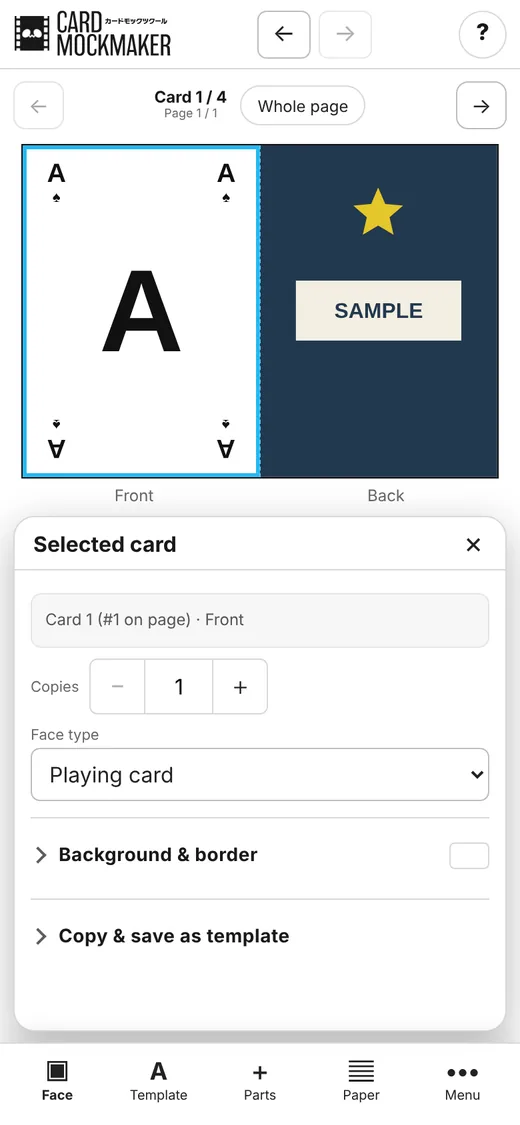
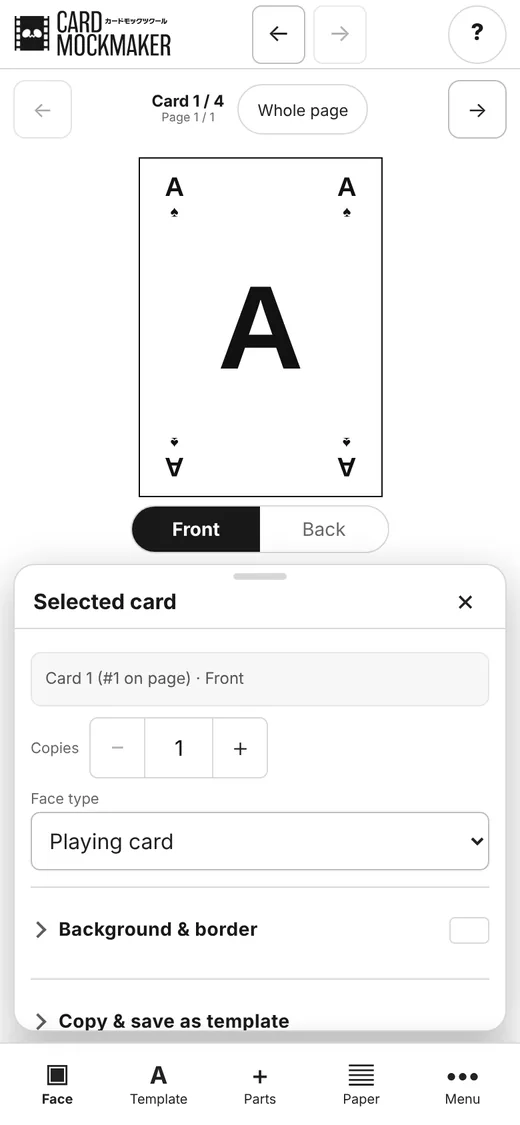
カードモックツクール(テスト版): スマホをタッチ操作向けに(面を1枚大きく・オモテ/ウラ切り替え・スワイプで前後のカード・パーツ用ボタンと大きなつまみ・パネルの取っ手・押す場所を指のサイズに・数字に−＋)
Claude-Session: https://claude.ai/code/session_01MypZ6bnFd6NWuA9aApFgtm

diff --git a/card-mock-maker-next/app.js b/card-mock-maker-next/app.js
@@ -932,7 +932,7 @@ function mobileAddPage(){
 
 function closeMobilePanel(){
   mobilePanelOpen="";
-  document.body.classList.remove("m-panel-open");
+  document.body.classList.remove("m-panel-open","m-panel-full");
   rescaleMobileFaces();
   if(mobileSheetMode)renderMobileSheet();
   document.querySelectorAll(".mobile-tool-panel").forEach(p=>{
@@ -994,11 +994,30 @@ function placeMobilePanel(){
   const sheetFrame=mobileSheetMode?document.querySelector("#mobileSheetView .m-sheet-frame"):null;
   const ref=sheetFrame||((labels&&labels.offsetParent)?labels:pair);if(!ref||!bar)return;
   const barTop=bar.getBoundingClientRect().top;
-  const top=Math.max(56,Math.min(ref.getBoundingClientRect().bottom+8,barTop-8-220));
+  const hb=document.querySelector("header")?.getBoundingClientRect().bottom||56;
+  const top=document.body.classList.contains("m-panel-full")?Math.round(hb+8):Math.max(56,Math.min(ref.getBoundingClientRect().bottom+8,barTop-8-220));   // 上に引き上げたときは画面いっぱい
   document.documentElement.style.setProperty("--m-panel-top",Math.round(top)+"px");
   document.documentElement.style.setProperty("--m-panel-bottom",Math.round(innerHeight-barTop+8)+"px");
 }
 window.addEventListener("resize",placeMobilePanel);
+/* パネルの上の取っ手:下に引くと閉じる、上に引くと画面いっぱいに広がる(広げたあと下に引くと元の大きさ) */
+function setPanelFull(on){document.body.classList.toggle("m-panel-full",!!on);placeMobilePanel()}
+document.querySelectorAll(".mobile-tool-panel").forEach(p=>{
+  const head=p.querySelector(".mobile-panel-head");if(!head)return;
+  const g=document.createElement("div");g.className="m-grab";g.setAttribute("aria-hidden","true");head.prepend(g);
+  let st=null;
+  head.addEventListener("pointerdown",e=>{if(e.target.closest("button"))return;st={id:e.pointerId,y:e.clientY,t:Date.now(),dy:0};try{head.setPointerCapture(e.pointerId)}catch(_){}});
+  head.addEventListener("pointermove",e=>{if(!st||e.pointerId!==st.id)return;st.dy=e.clientY-st.y;p.style.transition="none";p.style.transform=`translateY(${st.dy>0?st.dy:st.dy*.3}px)`});
+  const end=e=>{
+    if(!st||e.pointerId!==st.id)return;const s=st;st=null;const fast=Date.now()-s.t<260;p.style.transition="transform .18s ease";
+    if(s.dy>70||(fast&&s.dy>28)){
+      if(document.body.classList.contains("m-panel-full")){setPanelFull(false);p.style.transform=""}
+      else{p.style.transform="translateY(105%)";setTimeout(()=>{p.style.transition="";p.style.transform="";closeMobilePanel()},170)}
+    }else if(s.dy<-45||(fast&&s.dy<-22)){setPanelFull(true);p.style.transform=""}
+    else p.style.transform="";
+  };
+  head.addEventListener("pointerup",end);head.addEventListener("pointercancel",end);
+});
 
 document.querySelectorAll('input[type=file]').forEach(inp=>{
   if(!inp.id||inp.classList.contains("hidden"))return;
@@ -1070,16 +1089,62 @@ function goToMobilePage(delta){
 }
 
 function rescaleMobileFaces(){
-  document.querySelectorAll("#mobileCardPair .m-face-inner").forEach(n=>{const w=n.parentElement.clientWidth;if(w)n.style.transform=`scale(${w/parseFloat(n.style.width)})`});
+  sizeOneFace();
+  document.querySelectorAll("#mobileCardPair .m-face-inner").forEach(n=>{const w=n.parentElement.clientWidth;if(w){const k=w/parseFloat(n.style.width);n.style.transform=`scale(${k})`;n.style.setProperty("--m-inv",String(1/k))}});
 }
+/* 1枚の面を、カードの上下の空きに収まるいちばん大きな大きさにする(パネルを開いたら、パネルの上に収まる大きさ) */
+function sizeOneFace(){
+  const host=el("mobileCardPair");if(!host||!mobileUIActive()||mobileSheetMode)return;
+  const f=host.querySelector(".face");if(!f)return;
+  const fm=faceMM(),ratio=fm.w/fm.h,vw=document.documentElement.clientWidth;
+  const top=host.getBoundingClientRect().top,seg=document.querySelector(".mobile-face-labels");
+  const segH=seg&&seg.style.display!=="none"?56:14,barTop=el("mobileQuickBar")?.getBoundingClientRect().top||innerHeight;
+  const maxH=mobilePanelOpen?Math.max(130,Math.min(innerHeight*.3,300)):Math.max(160,barTop-top-segH-6);
+  const w=Math.min(vw-40,560,maxH*ratio),h=w/ratio;
+  f.style.setProperty("width",Math.floor(w)+"px","important");f.style.setProperty("height",Math.floor(h)+"px","important");
+}
+document.querySelectorAll(".mobile-face-labels [data-side]").forEach(b=>b.addEventListener("click",()=>{
+  const side=Number(b.dataset.side);if(arrangement()!=="pairs"||selected%2===side)return;
+  selected=Math.floor(selected/2)*2+side;activePart=null;renderSheet();syncControls();
+  el("mobileCardPair").querySelector(".face")?.classList.add("flip-in");
+}));
+/* 左右にスワイプで前後のカードへ(指についてくる。パーツを動かしているときは動かない) */
+(()=>{
+  const host=el("mobileCardPair");if(!host)return;let sw=null;
+  host.addEventListener("pointerdown",e=>{
+    if(e.pointerType==="mouse"||!mobileUIActive()||mobileSheetMode)return;
+    if(e.target.closest("[data-part],.resize-handle,.rotate-handle,[contenteditable]"))return;
+    sw={id:e.pointerId,x:e.clientX,y:e.clientY,t:Date.now(),dx:0,on:false};
+  });
+  host.addEventListener("pointermove",e=>{
+    if(!sw||e.pointerId!==sw.id)return;const dx=e.clientX-sw.x,dy=e.clientY-sw.y;
+    if(!sw.on){if(Math.abs(dx)>10&&Math.abs(dx)>Math.abs(dy)*1.3)sw.on=true;else{if(Math.abs(dy)>12)sw=null;return}}
+    const total=pages.length*cardsPerPage(),i=mobileCardIndex(),edge=(dx<0&&i>=total-1)||(dx>0&&i<=0);
+    sw.dx=dx;host.style.transition="none";host.style.transform=`translateX(${edge?dx*.25:dx}px) rotate(${(edge?dx*.25:dx)*.02}deg)`;
+  });
+  const end=e=>{
+    if(!sw||e.pointerId!==sw.id)return;const s=sw;sw=null;if(!s.on)return;
+    swipedAt=Date.now();
+    const dir=s.dx<0?1:-1,total=pages.length*cardsPerPage(),i=mobileCardIndex(),can=dir>0?i<total-1:i>0;
+    const go=can&&(Math.abs(s.dx)>70||(Date.now()-s.t<300&&Math.abs(s.dx)>35));
+    host.style.transition="transform .16s ease-in";
+    if(!go){host.style.transform="";return}
+    host.style.transform=`translateX(${-dir*70}vw) rotate(${-dir*4}deg)`;
+    setTimeout(()=>{host.style.transition="none";host.style.transform=`translateX(${dir*55}vw)`;goToMobileCard(dir);
+      requestAnimationFrame(()=>requestAnimationFrame(()=>{host.style.transition="transform .2s cubic-bezier(.2,.8,.3,1)";host.style.transform=""}))},150);
+  };
+  host.addEventListener("pointerup",end);host.addEventListener("pointercancel",end);
+})();
+let swipedAt=0;
 window.addEventListener("resize",()=>{if(mobileUIActive())rescaleMobileFaces()});
 function renderMobileCardPreview(){
   if(inlineEdit)finishInlineEdit(false);
   const host=el("mobileCardPair");if(!host)return;
   const faces=currentFaces(),c=cardMM(),landscape=isLandscapeCard();
   const paired=arrangement()==="pairs";
-  host.innerHTML="";host.className="mobile-card-pair "+(landscape?"mobile-landscape-card":"mobile-portrait-card")+(paired?"":" single-mode");
-  const indices=paired?[Math.floor(selected/2)*2,Math.floor(selected/2)*2+1]:[selected];
+  // スマホでは、選んでいる面を1枚だけ大きく出す(オモテ・ウラは下の切り替えで)
+  host.innerHTML="";host.className="mobile-card-pair one-face single-mode "+(landscape?"mobile-landscape-card":"mobile-portrait-card");
+  const indices=[selected];
   indices.forEach(idx=>{const f=document.createElement("div");f.className="face"+(idx===selected?" selected":"");f.dataset.idx=idx;f.style.setProperty("--mobile-card-ratio",landscape?`${c.h}/${c.w}`:`${c.w}/${c.h}`);const fm=faceMM(),inner=document.createElement("div");inner.className="m-face-inner";inner.style.width=fm.w*MM_TO_PX+"px";inner.style.height=fm.h*MM_TO_PX+"px";f.appendChild(inner);renderFace(inner,faces[idx],idx===selected,idx);f.addEventListener("click",()=>{if(selected===idx)return;selected=idx;renderMobileCardPreview();syncControls();inlineHint()});host.appendChild(f)});
   rescaleMobileFaces();
   const absolute=mobileCardIndex();
@@ -1101,7 +1166,8 @@ function renderMobileCardPreview(){
   el("mobilePrevCard").disabled=absolute<=0;
   const atEnd=absolute>=total-1,nb=el("mobileNextCard");
   nb.disabled=atEnd&&pages.length>=MAX_PAGES;nb.textContent=atEnd?"＋":"→";nb.setAttribute("aria-label",atEnd?"ページを追加":"次のカード");nb.classList.toggle("is-add",atEnd);
-  const labels=document.querySelector(".mobile-face-labels");if(labels){labels.style.display=paired?"":"none";labels.classList.toggle("stacked",landscape)}
+  const labels=document.querySelector(".mobile-face-labels");if(labels){labels.style.display=paired?"":"none";labels.querySelectorAll("[data-side]").forEach(b=>b.setAttribute("aria-pressed",String(Number(b.dataset.side)===selected%2)))}
+  sizeOneFace();rescaleMobileFaces();markActivePart();
   if(mobilePanelOpen)requestAnimationFrame(placeMobilePanel);
 }
 
@@ -1497,6 +1563,7 @@ document.addEventListener("click",e=>{
   if(ptrType==="mouse")return;
   const n=editTarget(e);if(!n||n.isContentEditable)return;
   if(ptrStart&&Math.hypot(e.clientX-ptrStart.x,e.clientY-ptrStart.y)>8)return;
+  if(Date.now()-swipedAt<400)return;
   e.preventDefault();e.stopPropagation();startBarEdit(n);
 },true);
 
@@ -1554,7 +1621,7 @@ let inlineHintShown=false;
 function inlineHint(){
   if(inlineHintShown)return;inlineHintShown=true;
   try{if(localStorage.getItem("pk-hint-inline"))return;localStorage.setItem("pk-hint-inline","1")}catch(_){}
-  showAppToast(T(ptrType==="mouse"?"カードの文字はダブルクリックで、その場で直せます。画像はカードにドラッグして置けます。":"選んだカードの文字をタップすると、その場で直せます。"),{duration:7000});
+  showAppToast(T(ptrType==="mouse"?"カードの文字はダブルクリックで、その場で直せます。画像はカードにドラッグして置けます。":"選んだカードの文字をタップすると、その場で直せます。左右にスワイプすると、前後のカードへ移ります。"),{duration:7000});
 }
 
 /* ---- キーボード操作(パソコン) ----
@@ -1565,11 +1632,40 @@ function typingIn(t){return !!(t&&t.closest&&t.closest("input,textarea,select,[c
 function overlayOpen(){return !!document.querySelector(".modal:not([hidden])")||!el("settingsPop").hidden||!el("textEditBar").hidden||!!document.querySelector(".color-popup.open,.color-popup:not([hidden])")}
 function markActivePart(){
   document.querySelectorAll(".part-active").forEach(n=>n.classList.remove("part-active"));
-  if(!activePart)return;
-  if(activePart.page!==currentPage||activePart.idx!==selected){activePart=null;return}
-  const n=document.querySelector(`#sheetGrid .face.selected [data-part="${CSS.escape(activePart.part)}"]`);
-  if(n)n.classList.add("part-active");else activePart=null;
+  if(activePart&&(activePart.page!==currentPage||activePart.idx!==selected))activePart=null;
+  if(activePart){
+    const q=`.face.selected [data-part="${CSS.escape(activePart.part)}"]`,ns=document.querySelectorAll(`#sheetGrid ${q},#mobileCardPair ${q}`);
+    if(ns.length)ns.forEach(n=>n.classList.add("part-active"));else activePart=null;
+  }
+  syncPartBar();
 }
+/* スマホ:カードの上のパーツに触れたら、下に「小さく・大きく・中央へ・削除」を出す(つまみを細かく動かさなくてよいように) */
+function syncPartBar(){
+  const bar=el("partBar");if(!bar)return;const on=mobileUIActive()&&!!activePart&&!mobileSheetMode;
+  bar.hidden=!on;document.body.classList.toggle("part-on",on);
+}
+function activePartItem(){
+  const a=activePart;if(!a)return null;const i=a.part.indexOf(":"),k=a.part.slice(0,i),id=a.part.slice(i+1),d=currentFaces()[selected];
+  const list=({tb:ensureTextBoxes,ft:ensureFrameTexts,img:ensureOptionImages,shape:ensureShapes}[k]||(()=>null))(d);
+  return list?list.find(x=>x.id===id)||null:null;
+}
+el("mobileCardPair")?.addEventListener("pointerdown",e=>{
+  const p=e.target.closest(".face.selected [data-part]");
+  if(p){activePart={page:currentPage,idx:selected,part:p.dataset.part};markActivePart()}
+  else if(activePart&&e.target.closest(".face")){activePart=null;markActivePart()}
+},true);
+el("partBar")?.addEventListener("click",e=>{
+  const b=e.target.closest("[data-act]");if(!b)return;const act=b.dataset.act;
+  if(act==="done"){activePart=null;markActivePart();return}
+  if(act==="delete"){deleteActivePart();return}
+  const item=activePartItem();if(!item)return;const o=item.box||{x:20,y:20,w:60,h:14};
+  if(act==="center")item.box={...o,x:50-o.w/2};
+  else{
+    let k=act==="bigger"?1.15:1/1.15;k=Math.min(k,100/o.w,100/o.h);if(o.w*k<6)k=6/o.w;
+    const w=o.w*k,h=o.h*k,x=clamp(o.x+o.w/2-w/2,0,100-w),y=clamp(o.y+o.h/2-h/2,0,100-h);item.box={...o,x,y,w,h};
+  }
+  renderSheet();syncControls();
+});
 el("sheetGrid").addEventListener("pointerdown",e=>{
   const p=e.target.closest(".face.selected [data-part]");
   activePart=p?{page:currentPage,idx:selected,part:p.dataset.part}:null;markActivePart();
@@ -1707,7 +1803,7 @@ el("mobileDupPage")?.addEventListener("click",()=>el("dupPage")?.click());
 el("mobileDeletePage")?.addEventListener("click",()=>el("deletePage")?.click());
 el("mobilePrevCard")?.addEventListener("click",()=>mobileSheetMode?goToMobilePage(-1):goToMobileCard(-1));
 el("mobileViewToggle")?.addEventListener("click",()=>{if(!mobileSheetMode&&["Face","Template","Options"].includes(mobilePanelOpen))closeMobilePanel();setMobileSheetMode(!mobileSheetMode)});
-[el("mobileCardPair"),el("mobileSheetView")].forEach(area=>{if(!area)return;let sx=null,sy=0;
+[el("mobileSheetView")].forEach(area=>{if(!area)return;let sx=null,sy=0;   // カード1枚の表示のスワイプは、指についてくる版(上)で扱う
   area.addEventListener("pointerdown",e=>{if(e.pointerType==="mouse"||e.target.closest(".editable"))return;sx=e.clientX;sy=e.clientY});
   area.addEventListener("pointerup",e=>{if(sx===null)return;const dx=e.clientX-sx,dy=e.clientY-sy;sx=null;
     if(!(Math.abs(dx)>50&&Math.abs(dx)>Math.abs(dy)*1.5))return;
@@ -3238,6 +3334,21 @@ document.querySelectorAll(".install-btn").forEach(b=>b.addEventListener("click",
   showAppToast(T("Safariの共有ボタン(□に↑)から「ホーム画面に追加」を選んでください。一度開けば、電波がないところでも使えます。"),{duration:9000});
 }));
 syncInstallButtons();
+
+/* ---- 指で触る端末では、数字の入力欄の左右に − ＋ を足す(小さな矢印や数字キーの入力をしなくてよいように) ---- */
+const coarse=matchMedia("(pointer:coarse)");
+function addSteppers(root){
+  if(!coarse.matches)return;
+  root.querySelectorAll(".tool-number-wrap:not(.has-steps)").forEach(w=>{
+    const inp=w.querySelector('input[type=number]');if(!inp)return;w.classList.add("has-steps");
+    const mk=(txt,dir,label)=>{const b=document.createElement("button");b.type="button";b.className="num-step";b.textContent=txt;b.setAttribute("aria-label",T(label));
+      b.addEventListener("click",()=>{const st=parseFloat(inp.step)||.5,v=(parseFloat(inp.value)||0)+dir*st,mn=inp.min!==""?parseFloat(inp.min):-Infinity,mx=inp.max!==""?parseFloat(inp.max):Infinity;
+        inp.value=String(Math.round(clamp(v,mn,mx)*100)/100);inp.dispatchEvent(new Event("input",{bubbles:true}));inp.dispatchEvent(new Event("change",{bubbles:true}))});return b};
+    w.insertBefore(mk("−",-1,"小さく"),w.firstChild);w.appendChild(mk("＋",1,"大きく"));
+  });
+}
+addSteppers(document);
+new MutationObserver(ms=>{if(!coarse.matches)return;for(const m of ms)for(const n of m.addedNodes)if(n.nodeType===1&&(n.matches?.(".tool-number-wrap")||n.querySelector?.(".tool-number-wrap:not(.has-steps)")))addSteppers(n.parentNode||n)}).observe(document.body,{childList:true,subtree:true});
 
 /* ---- 右のパネル:たたんである「背景とふち」「コピー・テンプレート保存」。開け閉めは覚えておく ---- */
 function syncFaceStyleChip(d){

diff --git a/card-mock-maker-next/guide/index.html b/card-mock-maker-next/guide/index.html
@@ -586,11 +586,11 @@
   <header class="sec-head"><p class="en" aria-hidden="true">ON A PHONE</p><div class="sec-row"><h2 class="pill" id="phone-h"><span lang="ja">スマホで使う</span><span lang="en">On a phone</span></h2></div></header>
   
 <div class="phones">
-  <figure class="shot "><img style="max-width:240px" lang="ja" src="img/phone-home-ja.webp?v=20261105" width="520" height="1125" alt="カードを1枚ずつ表示" loading="lazy" decoding="async"><img style="max-width:240px" lang="en" src="img/phone-home-en.webp?v=20261105" width="520" height="1125" alt="One card at a time" loading="lazy" decoding="async"><figcaption><span lang="ja">カードを1枚ずつ表示</span><span lang="en">One card at a time</span></figcaption></figure>
+  <figure class="shot "><img style="max-width:240px" lang="ja" src="img/phone-home-ja.webp?v=20261105" width="520" height="1125" alt="選んでいる面を大きく表示" loading="lazy" decoding="async"><img style="max-width:240px" lang="en" src="img/phone-home-en.webp?v=20261105" width="520" height="1125" alt="The selected face, shown large" loading="lazy" decoding="async"><figcaption><span lang="ja">選んでいる面を大きく表示</span><span lang="en">The selected face, shown large</span></figcaption></figure>
+  <figure class="shot "><img style="max-width:240px" lang="ja" src="img/phone-parts-ja.webp?v=20261105" width="520" height="1125" alt="パーツに触れると、下にボタンが出る" loading="lazy" decoding="async"><img style="max-width:240px" lang="en" src="img/phone-parts-en.webp?v=20261105" width="520" height="1125" alt="Touch a part to get its buttons" loading="lazy" decoding="async"><figcaption><span lang="ja">パーツに触れると、下にボタンが出る</span><span lang="en">Touch a part to get its buttons</span></figcaption></figure>
   <figure class="shot "><img style="max-width:240px" lang="ja" src="img/phone-face-ja.webp?v=20261105" width="520" height="1125" alt="「面」を押したところ" loading="lazy" decoding="async"><img style="max-width:240px" lang="en" src="img/phone-face-en.webp?v=20261105" width="520" height="1125" alt="The Face tab" loading="lazy" decoding="async"><figcaption><span lang="ja">「面」を押したところ</span><span lang="en">The Face tab</span></figcaption></figure>
-  <figure class="shot "><img style="max-width:240px" lang="ja" src="img/phone-sheet-ja.webp?v=20261105" width="520" height="1125" alt="「ページ全体」の表示" loading="lazy" decoding="async"><img style="max-width:240px" lang="en" src="img/phone-sheet-en.webp?v=20261105" width="520" height="1125" alt="Whole page view" loading="lazy" decoding="async"><figcaption><span lang="ja">「ページ全体」の表示</span><span lang="en">Whole page view</span></figcaption></figure>
 </div>
-<ul lang="ja"><li>下のバーに<b class="ui">面</b>・<b class="ui">テンプレ</b>・<b class="ui">パーツ</b>・<b class="ui">用紙</b>・<b class="ui">メニュー</b>が並びます。パソコンの右のパネルと同じことができます。</li><li>選んだカードの文字をタップすると、画面の上に大きな入力欄が出ます。打った文字はすぐカードに映ります。</li><li>カードはオモテとウラを並べて1枚ずつ表示します。← → か、左右にスワイプして次のカードへ。最後のカードで → を押すと、ページが増えます。</li><li><b class="ui">ページ全体</b>で用紙全体を見られます。カードを押すと、そのカードの編集に戻ります。</li><li><b class="ui">用紙</b>では、用紙・カード・並べ方・タイトル・フォント・単位を変えます。</li><li>PDF保存・印刷・画像の書き出し・見本・表から一括作成・マイテンプレート・作品の一覧・ページの操作・言語は<b class="ui">メニュー</b>にあります。</li></ul><ul lang="en"><li>The bar at the bottom has <b class="ui">Face</b>, <b class="ui">Template</b>, <b class="ui">Parts</b>, <b class="ui">Paper</b> and <b class="ui">Menu</b>: the same as the panel on the right on a computer.</li><li>Tap text on the selected card and a large text field appears at the top; the card updates as you type.</li><li>Cards are shown one at a time, front and back side by side. Use ← → or swipe left and right. Pressing → on the last card adds a page.</li><li><b class="ui">Whole page</b> shows the whole sheet. Tap a card to go back to editing it.</li><li><b class="ui">Paper</b> has the paper, card size, layout, title, font and units.</li><li>Save PDF, Print, Export images, the sample, Create from a table, My templates, My projects, page tools and language are in the <b class="ui">Menu</b>.</li></ul>
+<ul lang="ja"><li>下のバーに<b class="ui">面</b>・<b class="ui">テンプレ</b>・<b class="ui">パーツ</b>・<b class="ui">用紙</b>・<b class="ui">メニュー</b>が並びます。パソコンの右のパネルと同じことができます。</li><li>選んだカードの文字をタップすると、画面の上に大きな入力欄が出ます。打った文字はすぐカードに映ります。</li><li>選んでいる面を画面いっぱいに大きく表示します。カードの下の「オモテ」「ウラ」で面を切り替えます。</li><li>カードを左右にスワイプすると、前後のカードへ移ります（← → でも移れます）。最後のカードで → を押すと、ページが増えます。</li><li>カードの上のパーツに触れると、下に「小さく」「大きく」「中央へ」「削除」が出ます。指でドラッグして動かし、右下の丸で大きさも変えられます。</li><li>パネルの上の取っ手を下に引くと閉じ、上に引くと画面いっぱいに広がります。数字の欄は − ＋ で変えられます。</li><li><b class="ui">ページ全体</b>で用紙全体を見られます。カードを押すと、そのカードの編集に戻ります。</li><li><b class="ui">用紙</b>では、用紙・カード・並べ方・タイトル・フォント・単位を変えます。</li><li>PDF保存・印刷・画像の書き出し・見本・表から一括作成・マイテンプレート・作品の一覧・ページの操作・言語は<b class="ui">メニュー</b>にあります。</li></ul><ul lang="en"><li>The bar at the bottom has <b class="ui">Face</b>, <b class="ui">Template</b>, <b class="ui">Parts</b>, <b class="ui">Paper</b> and <b class="ui">Menu</b>: the same as the panel on the right on a computer.</li><li>Tap text on the selected card and a large text field appears at the top; the card updates as you type.</li><li>The selected face is shown as large as the screen allows. Switch sides with Front / Back below the card.</li><li>Swipe the card left or right to move to the previous or next card (← → work too). Pressing → on the last card adds a page.</li><li>Touch a part on the card to get Smaller, Bigger, Center and Delete below it. Drag it with your finger, and resize it with the round handle at the bottom right.</li><li>Pull a panel’s handle down to close it, or up to expand it to full screen. Number fields have − and + buttons.</li><li><b class="ui">Whole page</b> shows the whole sheet. Tap a card to go back to editing it.</li><li><b class="ui">Paper</b> has the paper, card size, layout, title, font and units.</li><li>Save PDF, Print, Export images, the sample, Create from a table, My templates, My projects, page tools and language are in the <b class="ui">Menu</b>.</li></ul>
 <h3 id="install"><span lang="ja">ホーム画面に追加（電波がなくても使う）</span><span lang="en">Add to Home Screen (works offline)</span></h3>
 <ul lang="ja"><li><b class="ui">メニュー</b>の<b class="ui">ホーム画面に追加</b>で、アプリのように開けます。iPhoneでは、Safariの共有ボタン（□に↑）から「ホーム画面に追加」を選びます。</li><li>一度開いておけば、電波のないイベント会場などでも開けます。作品はその端末に保存されます。</li><li>PDF保存と画像の書き出しも、一度使ったことがあれば電波なしで使えます。フォントは、電波がないと端末の文字になることがあります。</li></ul><ul lang="en"><li>Use <b class="ui">Add to Home Screen</b> in the <b class="ui">Menu</b> to open it like an app. On iPhone, tap Safari’s Share button (□ with ↑) and choose “Add to Home Screen”.</li><li>Once you’ve opened it, it also works where there’s no signal, such as at events. Your projects are saved on that device.</li><li>Saving PDFs and exporting images also work offline once you’ve used them. Without a connection, fonts may fall back to your device’s own.</li></ul>
 

diff --git a/card-mock-maker-next/app.css b/card-mock-maker-next/app.css
@@ -2359,3 +2359,86 @@ header .header-actions{display:flex;align-items:center;gap:8px;flex:none;margin-
 @media print{.part-active{outline:none!important}}
 .settings-row.settings-check{grid-template-columns:1fr;margin:10px 0 4px}
 .settings-row.settings-check .check-label{color:var(--ink)}
+
+/* ---- スマホ:カードを1枚大きく ---- */
+@media(max-width:720px){
+  .mobile-card-pair.one-face{display:flex!important;justify-content:center;margin:4px auto 0!important;will-change:transform}
+  .mobile-card-pair.one-face .face{flex:none!important;max-width:none!important}
+  .mobile-card-pair.one-face .face.selected::after{display:none!important}
+  .m-side-seg{display:flex!important;justify-content:center;gap:0;margin:10px auto 0!important;width:max-content;border:1px solid var(--ui-border);border-radius:22px;overflow:hidden;background:var(--ui-control)}
+  .m-side-seg[style*="none"]{display:none!important}
+  .m-side-seg button{min-width:96px;height:40px;border:0!important;border-radius:0!important;background:transparent;font-size:14px!important;color:var(--ui-muted);touch-action:manipulation}
+  .m-side-seg button[aria-pressed="true"]{background:var(--ink);color:var(--ui-panel);font-weight:700}
+  body.m-panel-open .m-side-seg{margin-top:6px!important}
+  body.m-panel-open .m-side-seg button{height:34px}
+  .mobile-card-pair .face.flip-in{animation:cmmFlip .22s ease-out}
+}
+@keyframes cmmFlip{from{transform:perspective(600px) rotateY(70deg);opacity:.4}to{transform:none;opacity:1}}
+
+/* ---- スマホ:パーツの操作 ---- */
+.m-face-inner .resize-handle{width:calc(30px*var(--m-inv,1))!important;height:calc(30px*var(--m-inv,1))!important;right:calc(-15px*var(--m-inv,1))!important;bottom:calc(-15px*var(--m-inv,1))!important;border-width:calc(2px*var(--m-inv,1))!important;border-radius:50%!important}
+.m-face-inner .rotate-handle{width:calc(26px*var(--m-inv,1))!important;height:calc(26px*var(--m-inv,1))!important;top:calc(-40px*var(--m-inv,1))!important;transform:translateX(-50%)!important;border-width:calc(2px*var(--m-inv,1))!important}
+.m-face-inner .resize-handle::after,.m-face-inner .rotate-handle::after{content:"";position:absolute;inset:calc(-10px*var(--m-inv,1))}
+.m-face-inner .part-active{outline-width:calc(2px*var(--m-inv,1))!important;outline-offset:calc(2px*var(--m-inv,1))!important}
+@media(max-width:720px){
+  .part-bar{display:flex;justify-content:center;gap:6px;margin:10px auto 0;padding:0 12px;flex-wrap:nowrap}
+  .part-bar[hidden]{display:none!important}
+  .part-bar button{min-height:44px;min-width:0;flex:1 1 0;max-width:92px;padding:0 6px;border-radius:12px;font-size:14px;touch-action:manipulation;white-space:nowrap}
+  .part-bar .part-del{color:#c0392b;border-color:rgba(192,57,43,.4)}
+  .part-bar .part-done{flex:0 0 48px;background:var(--ink);color:var(--ui-panel);border-color:var(--ink);font-size:18px}
+  body.part-on .m-side-seg{display:none!important}
+}
+
+/* ---- スマホ:パネルの取っ手 ---- */
+@media(max-width:720px){
+  .mobile-panel-head{position:relative;touch-action:none;height:48px!important;flex-basis:48px!important;padding-top:6px!important;cursor:grab}
+  .m-grab{position:absolute;top:6px;left:50%;width:40px;height:5px;border-radius:3px;background:var(--ui-border);transform:translateX(-50%);pointer-events:none}
+  .mobile-panel-close{width:44px!important;height:44px!important;min-width:44px!important;font-size:22px!important}
+  body.m-panel-full .mobile-tool-panel.open{box-shadow:0 -6px 30px rgba(0,0,0,.22)}
+}
+
+/* ---- 指で押しやすい大きさ(スマホ・タブレット) ---- */
+button,select,label,summary,input,[role=button],.file-btn,.swatch{touch-action:manipulation}
+@media(pointer:coarse){
+  input[type=range]:not(.color-hue){-webkit-appearance:none;appearance:none;height:34px;background:transparent;padding:0}
+  input[type=range]:not(.color-hue)::-webkit-slider-runnable-track{height:6px;border-radius:3px;background:var(--ui-border-strong,#bbb)}
+  input[type=range]:not(.color-hue)::-webkit-slider-thumb{-webkit-appearance:none;width:28px;height:28px;margin-top:-11px;border-radius:50%;background:#fff;border:2px solid var(--cyan);box-shadow:0 1px 4px rgba(0,0,0,.25)}
+  input[type=range]:not(.color-hue)::-moz-range-track{height:6px;border-radius:3px;background:var(--ui-border-strong,#bbb)}
+  input[type=range]:not(.color-hue)::-moz-range-thumb{width:26px;height:26px;border-radius:50%;background:#fff;border:2px solid var(--cyan)}
+  .color-hue{height:28px!important;border-radius:14px!important}
+  .color-hue::-webkit-slider-runnable-track{height:26px!important}
+  .color-hue::-webkit-slider-thumb{width:30px!important;height:30px!important;margin-top:-2px!important;border-width:3px!important}
+  .color-hue::-moz-range-thumb{width:28px!important;height:28px!important}
+  .color-field{height:170px!important}
+  .color-popup .swatches{gap:6px!important;grid-template-columns:repeat(auto-fill,minmax(34px,1fr))!important}
+  .color-popup .swatch{min-height:34px!important}
+  .color-popup-close{min-width:44px;min-height:44px;font-size:22px!important}
+  .color-popup input,.color-popup select,.color-popup button{min-height:40px}
+  .num-step{display:inline-flex;align-items:center;justify-content:center;width:36px;min-width:36px;height:40px;padding:0;border:1px solid var(--ui-border);background:var(--ui-control);color:var(--ink);font-size:20px;line-height:1;border-radius:8px;flex:none}
+  .tool-number-wrap.has-steps .size-icon{display:none}
+}
+@media(max-width:720px){
+  header .history-controls button,#helpBtn{min-width:44px!important;min-height:44px!important}
+  .mobile-card-nav button:not(.m-view-toggle){min-width:46px!important;min-height:44px!important}
+  .mobile-card-nav .m-view-toggle{height:38px!important;border-radius:19px!important;padding:0 14px!important}
+  .mobile-panel-body input[type=text],.mobile-panel-body input[type=number],.mobile-panel-body input:not([type]),.mobile-panel-body select,.mobile-panel-body .tool-main-input{min-height:44px!important}
+  .mobile-panel-body textarea{min-height:64px}
+  .mobile-panel-body button,.mobile-panel-body .mini,.mobile-panel-body .file-btn{min-height:42px}
+  .mobile-panel-body .style-toggle span{min-width:42px!important;min-height:42px!important;display:inline-flex!important;align-items:center;justify-content:center}
+  .mobile-panel-body .color-trigger{min-width:44px!important;min-height:44px!important}
+  .mobile-panel-body .face-copy-tools button,.mobile-panel-body #tplSaveQuick{min-height:46px!important;font-size:14px!important}
+  .mobile-panel-body label:has(> input[type=checkbox]){min-height:44px;display:flex;align-items:center;gap:10px}
+  .mobile-panel-body input[type=checkbox]{width:22px;height:22px}
+  .mobile-panel-body .panel-fold>summary{min-height:48px}
+  .mobile-panel-body .tool-number-wrap{gap:4px}
+  .mobile-panel-body .tool-number-wrap .tool-number{width:56px!important;min-width:56px!important;text-align:center}
+  .mobile-quick-bar button{min-height:56px}
+}
+@media(max-width:720px){
+  .mobile-panel-body .tcg-size-strip{display:flex!important;flex-direction:column;align-items:stretch;width:100%}
+  .mobile-panel-body .tcg-size-control{width:100%;grid-template-columns:40px 1fr;font-size:13px}
+}
+@media(max-width:720px){
+  .mobile-card-nav{grid-template-columns:44px minmax(0,1fr) 44px!important;height:44px!important;min-height:44px!important}
+  .mobile-card-nav button:not(.m-view-toggle){width:44px!important;min-width:44px!important;height:44px!important}
+}

diff --git a/card-mock-maker-next/i18n.js b/card-mock-maker-next/i18n.js
@@ -21,7 +21,7 @@ const EN={
   "下の「面」「テンプレ」から作りはじめます。":"Start from “Face” or “Template” below.",
   "見本を開く":"Open sample","見本":"Sample",
   // ---- スマホ
-  "スマホ用ツールバー":"Phone toolbar","面":"Face","テンプレ":"Template","オプション":"Options","パーツ":"Parts","完了":"Done","ホーム画面に追加":"Add to Home Screen","ホーム画面に追加しました。電波がないところでも開けます。":"Added to your home screen. It opens even without a connection.",
+  "スマホ用ツールバー":"Phone toolbar","面":"Face","テンプレ":"Template","オプション":"Options","パーツ":"Parts","完了":"Done","小さく":"Smaller","大きく":"Bigger","中央へ":"Center","パーツの選択をやめる":"Deselect part","ホーム画面に追加":"Add to Home Screen","ホーム画面に追加しました。電波がないところでも開けます。":"Added to your home screen. It opens even without a connection.",
   "Safariの共有ボタン(□に↑)から「ホーム画面に追加」を選んでください。一度開けば、電波がないところでも使えます。":"In Safari, tap the Share button (□ with ↑) and choose “Add to Home Screen”. Once opened, it works without a connection.","コピーした面を貼りました。":"Pasted the copied face.","この面をコピーしました。ほかの面を選んで ⌘V / Ctrl+V で貼れます。":"Copied this face. Select another face and press ⌘V / Ctrl+V to paste it.","大きさ":"Size","左右":"Left–right","上下":"Up–down","元に戻す":"Reset","カードの上でドラッグしても動かせます":"You can also drag it on the card","はみ出す文字は自動で小さくする":"Shrink text that doesn't fit","自動で小さくする":"Shrink automatically",
   "文字が枠からはみ出しています(赤い点線)。文字を減らすか小さくするか、「自動で小さくする」をオンにしてください。":"Some text doesn't fit its box (red dotted line). Shorten it, make it smaller, or turn on “Shrink automatically”.",
   "文字が枠に入りきりません(赤い点線)。文字を減らすか、枠を大きくしてください。":"Some text still doesn't fit (red dotted line). Shorten it or make the box bigger.","パーツを足す":"Add parts","選んでいるカード":"Selected card","並べ方":"Layout","背景とふち":"Background & border","コピー・テンプレート保存":"Copy & save as template",
@@ -42,7 +42,7 @@ const EN={
   "この面をこのページの同じ面にコピー":"Copy to the same side on this page","この面をすべてのページの同じ面にコピー":"Copy to the same side on all pages",
   "このページのすべての面にコピー":"Copy to every card on this page","すべてのページのすべての面にコピー":"Copy to every card on all pages",
   "画像を読み込む":"Load image","画像未設定":"No image","画像を読み込めませんでした。":"Couldn't load the image.",
-  "カードの文字はダブルクリックで、その場で直せます。画像はカードにドラッグして置けます。":"Double-click text on a card to edit it right there. Drag an image onto a card to place it.","選んだカードの文字をタップすると、その場で直せます。":"Tap text on the selected card to edit it right there.","画像を選んでいるカードに貼りました。":"Pasted the image onto the selected card.",
+  "カードの文字はダブルクリックで、その場で直せます。画像はカードにドラッグして置けます。":"Double-click text on a card to edit it right there. Drag an image onto a card to place it.","選んだカードの文字をタップすると、その場で直せます。":"Tap text on the selected card to edit it right there.","選んだカードの文字をタップすると、その場で直せます。左右にスワイプすると、前後のカードへ移ります。":"Tap text on the selected card to edit it. Swipe left or right to move between cards.","オモテ・ウラ":"Front / back","画像を選んでいるカードに貼りました。":"Pasted the image onto the selected card.",
   // ---- テンプレート
   "種類":"Type","トランプ":"Playing card","トレカ":"Trading card","ワードゲーム":"Word game",
   "数字":"Number","数字の大きさ":"Number size","太字":"Bold","斜体":"Italic","下線":"Underline","数字の色":"Number color","フォント":"Font","基本":"Default",

diff --git a/card-mock-maker-next/index.html b/card-mock-maker-next/index.html
@@ -321,7 +321,8 @@
         </div>
         <div id="mobileCardPair" class="mobile-card-pair"></div>
         <div id="mobileSheetView" class="m-sheet-view" hidden></div>
-        <div class="mobile-face-labels"><span>オモテ</span><span>ウラ</span></div>
+        <div id="partBar" class="part-bar" role="toolbar" aria-label="パーツ" hidden><button type="button" data-act="smaller">小さく</button><button type="button" data-act="bigger">大きく</button><button type="button" data-act="center">中央へ</button><button type="button" data-act="delete" class="part-del">削除</button><button type="button" data-act="done" class="part-done" aria-label="パーツの選択をやめる">✓</button></div>
+        <div class="mobile-face-labels m-side-seg" role="group" aria-label="オモテ・ウラ"><button type="button" data-side="0" aria-pressed="true">オモテ</button><button type="button" data-side="1" aria-pressed="false">ウラ</button></div>
       </section>
     </div>
   </div>
